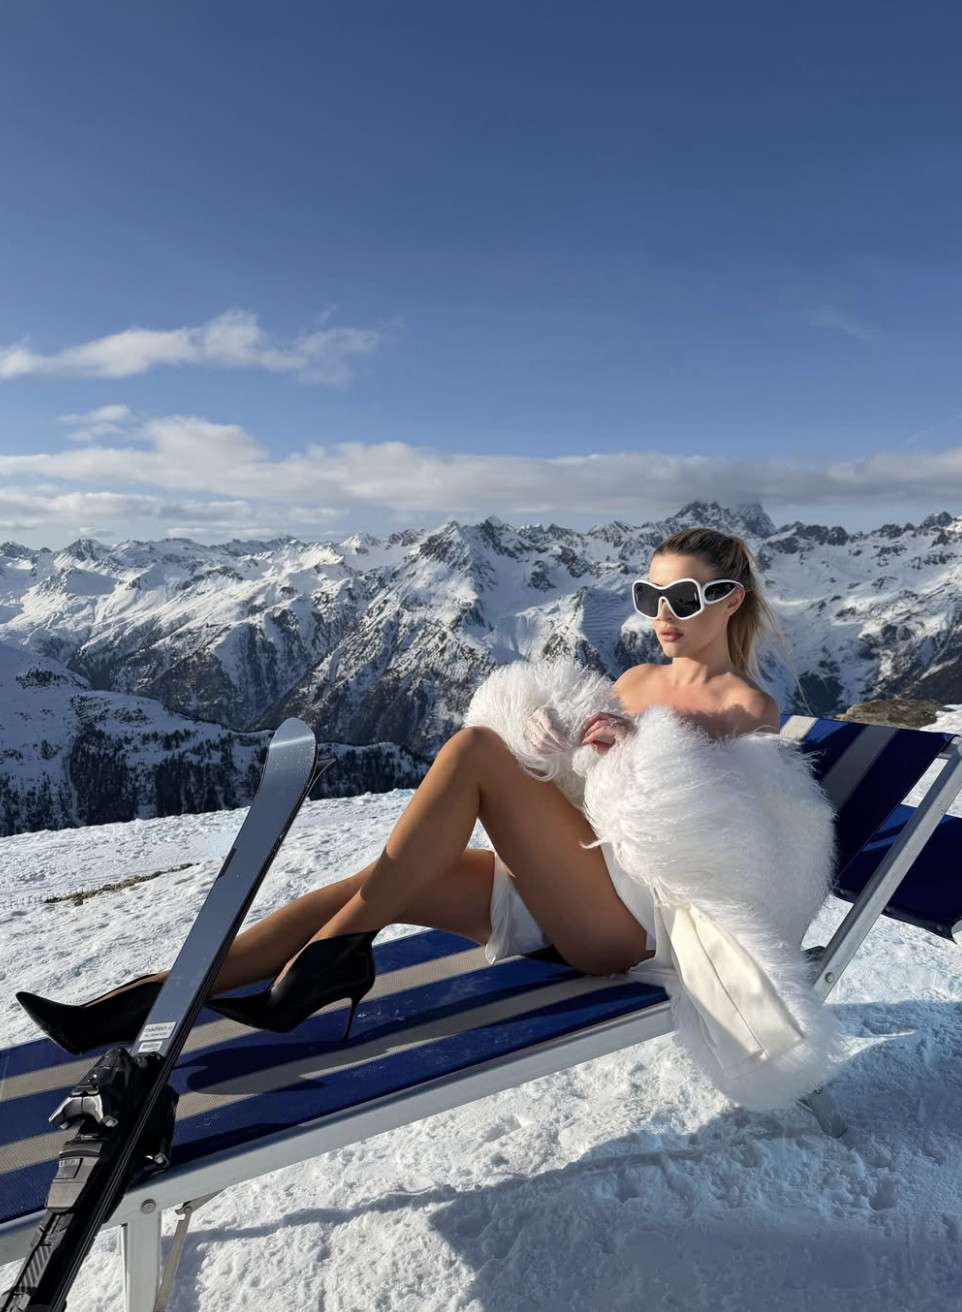
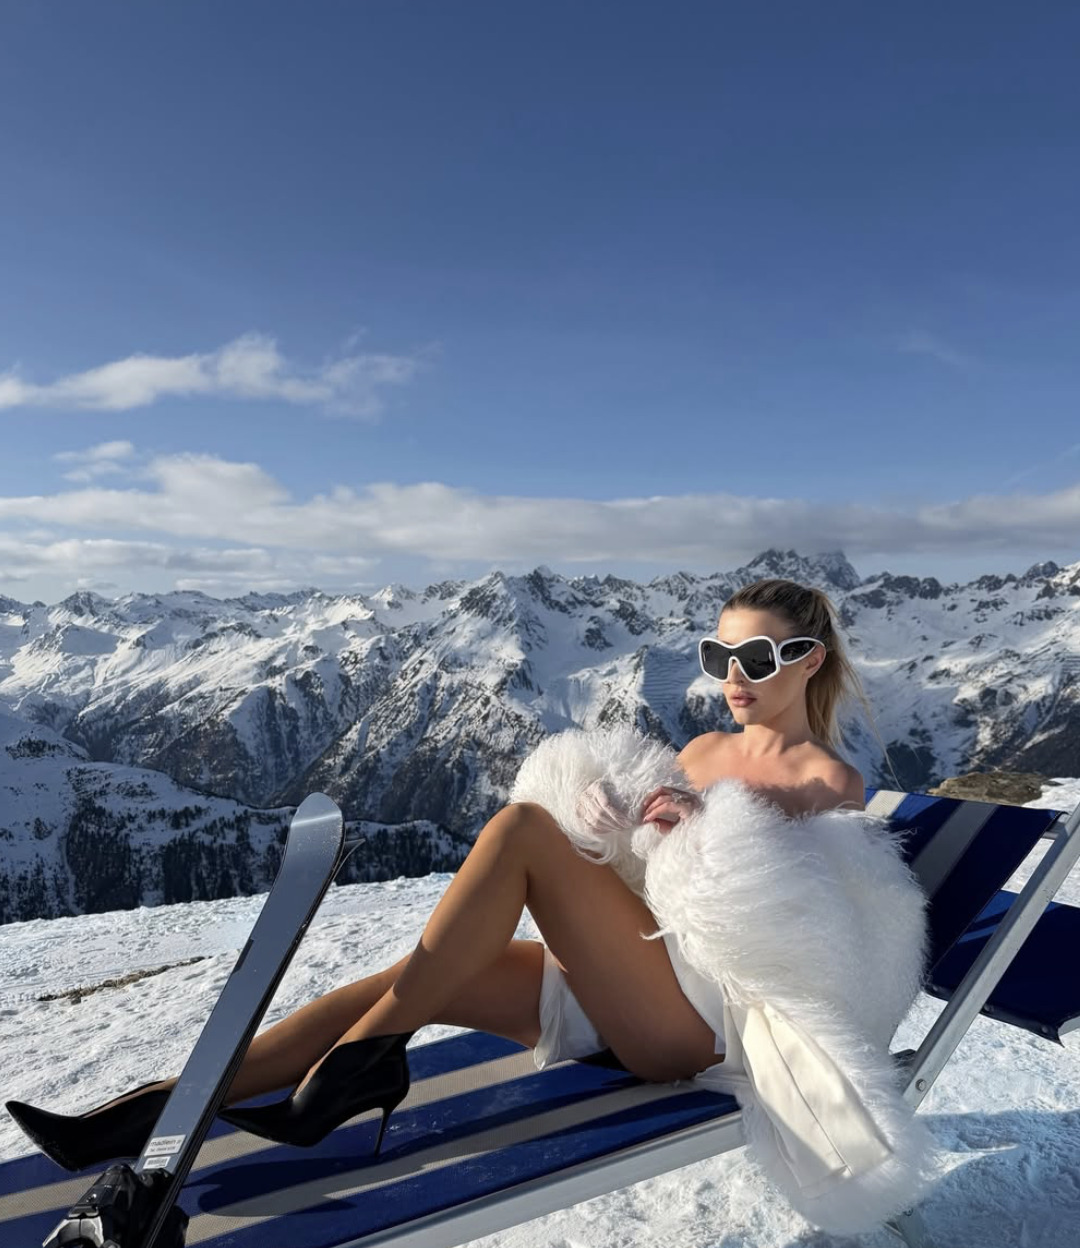
Hotels: Jagdhof Spa Hotel, Hotel Wulfenia, Viceroy Kopaonik; new Madlein Ischgl photo
Claude-Session: https://claude.ai/code/session_01AfQrsg2nVWEa3CcAZs6uN7

diff --git a/index.html b/index.html
@@ -593,7 +593,7 @@ footer ul a:hover{color:var(--wine)}
     <div class="c" style="text-align:center;display:flex;flex-direction:column;gap:30px;align-items:center">
       <div class="pk-head" style="margin:0"><span class="kicker">Partners</span><h2>In <em>good</em> company</h2></div>
       <div class="partners-list"><p><span>Rosewood Courchevel</span> <i>·</i> <span>Bagatelle Courchevel</span> <i>·</i> <span>Madlein Ischgl</span> <i>·</i> <span>Alpes Hôtel du Pralong</span> <i>·</i> <span>High Society</span> <i>·</i> <span>Bluebird Ski Wear</span> <i>·</i> <span>Casa Malka</span> <i>·</i> <span>Après Provence</span> <i>·</i> <span>Helicopter Services</span> <i>·</i> <span>Go Transfer Peak</span></p></div>
-      <a class="more" href="#partners" style="align-self:center">View all 23 partners</a>
+      <a class="more" href="#partners" style="align-self:center">View all 26 partners</a>
     </div>
   </section>
 
@@ -1465,6 +1465,9 @@ footer ul a:hover{color:var(--wine)}
     ['SALTO at Rosewood Courchevel','Dining','The gastronomic heart of Rosewood Courchevel: Alpine classics with Italian flair by day, elevated Alpine cuisine by night, and vintage champagne by the fire in the SALTO Lounge.','','images/site/p-salto.jpg','https://www.rosewoodhotels.com/en/courchevel'],
     ['Rosewood Courchevel','Hotels','A mountain retreat with private chalets, personal service and a serene spa, steps from the slopes.','','images/site/p-rosewood.jpg','https://www.rosewoodhotels.com/en/courchevel'],
     ['Madlein Ischgl','Hotels','A design-led hotel in Ischgl, loved for its attentive service, stylish comfort and vibrant spirit.','','images/site/p-madlein.jpg',''],
+    ['Jagdhof Spa Hotel','Hotels','At Jagdhof Spa Hotel, every detail feels like it was made for queens of the mountains. From timeless Tyrolean charm to world-class dining and wellness, this is where alpine tradition meets effortless elegance. After conquering the Stubai Glacier, return to warm hospitality, serene spa rituals, and evenings that feel truly regal.','','images/site/p-jagdhof.jpg',''],
+    ['Hotel Wulfenia','Hotels','Adults only. An alpine hideaway on the Nassfeld slopes, made for spa evenings, chilled champagne and slow, cosy mornings before the first run.','','images/site/p-wulfenia.jpg',''],
+    ['Viceroy Kopaonik','Hotels','A five-star ski-in, ski-out retreat in Kopaonik, Serbia, where contemporary alpine design meets a serene spa and sweeping mountain views.','','images/site/p-viceroy.jpg',''],
     ['Casa Malka','Drinks','Tequila made for high-altitude living, bold and confident from the first sip to the last.','','images/site/p-casamalka.jpg',''],
     ['4F Transfers','Transfers','Touch down in style \u2014 we highly recommend 4F Transfers for seamless, private rides from Geneva to Courchevel. Chauffeured comfort, zero stress, all glamour. Use promo code SKIQUEENS for an exclusive little discount and arrive like royalty.','Promo code SKIQUEENS','images/site/p-4f.jpg','https://4ftransfers.com'],
     ['Bluebird Ski Wear','Ski wear','Women\u2019s alpine clothing that pairs technical performance with elegant, modern design.','Ski Queens promo code','images/site/p-bluebird.jpg',''],
